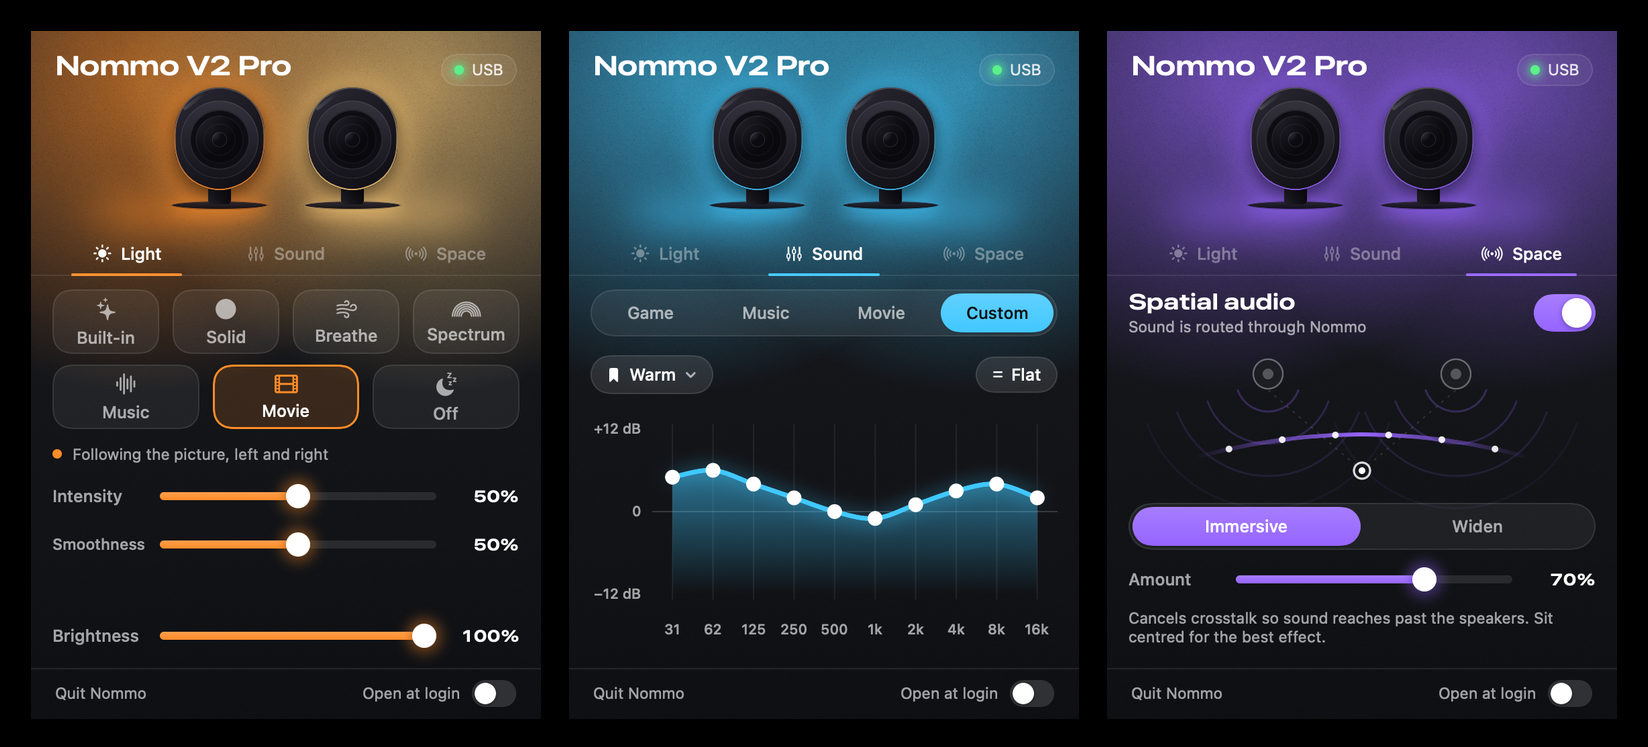
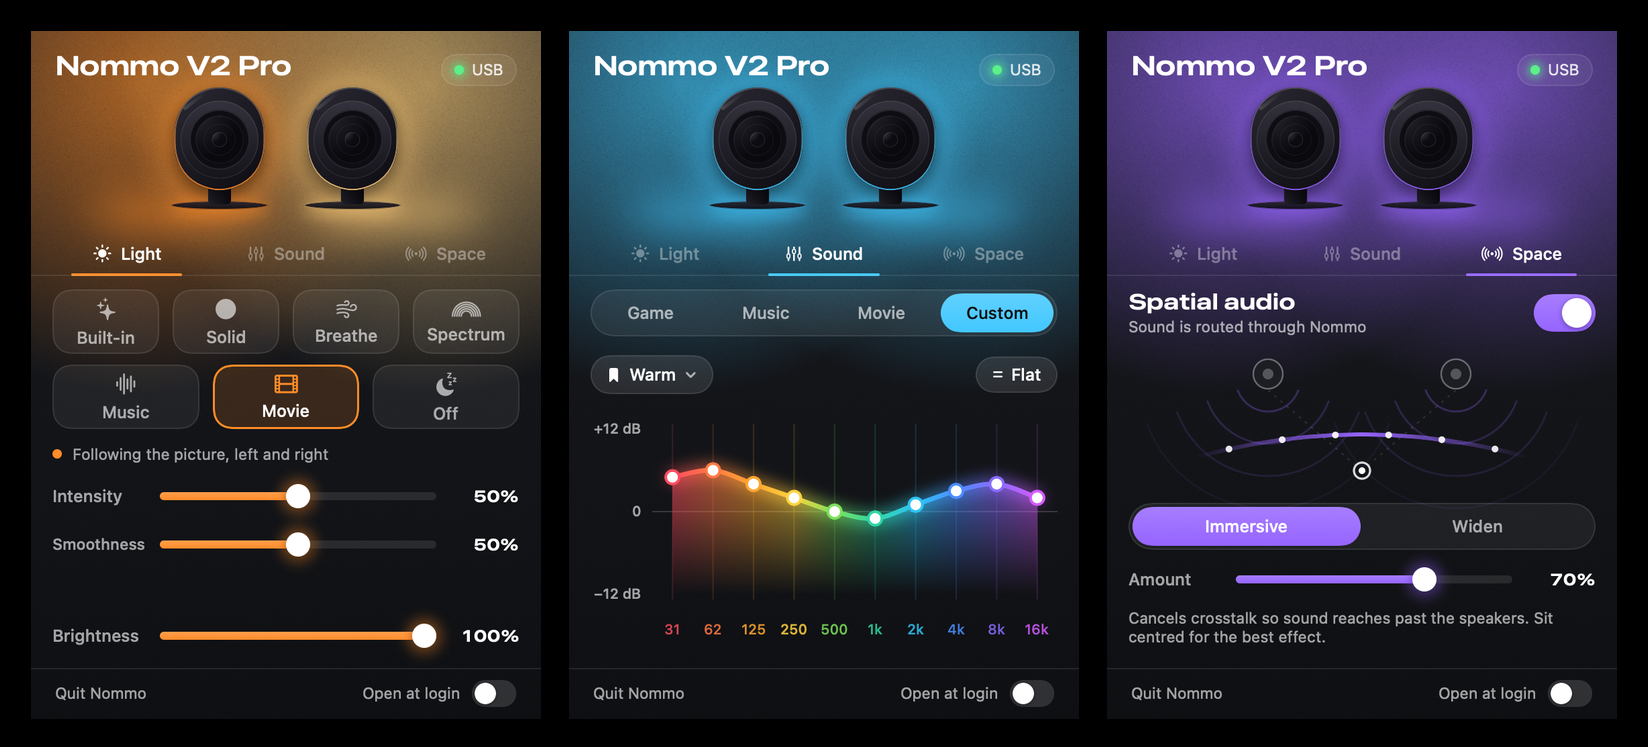
Colour-code the equaliser curve by frequency
The curve, its glow and its fill now run through the spectrum from red-orange
bass to violet treble, and each band's label, hairline and point carries its
own colour. The palette is fixed rather than following the lighting colour.
README wording and screenshots updated.

Changed region(s): [[0.4023, 0.6158, 0.6499, 0.7697], [0.4023, 0.8313, 0.588, 0.8621], [0.6189, 0.8313, 0.6499, 0.8621]]

diff --git a/Sources/NommoUI/Visuals.swift b/Sources/NommoUI/Visuals.swift
@@ -189,15 +189,21 @@ struct SpeakerView: View {
 
 // MARK: - EQ curve
 
-/// The equaliser as a response curve: a glowing line in the accent colour through ten draggable points, over a wash
-/// that fades towards the bottom, with the dB range at the left and the band frequencies underneath.
+/// The equaliser as a response curve: a glowing line through ten draggable points, over a wash that fades towards the
+/// bottom, with the dB range at the left and the band frequencies underneath. Frequency is colour-coded from warm
+/// bass to cool treble, like a spectrum analyser.
 struct EQCurve: View {
     let values: [Double]
     /// False draws the curve only, for a style the speaker plays but that isn't being edited.
     var editable = true
     @Binding var activeBand: Int?
     let onChange: (Int, Double) -> Void
-    @Environment(\.accent) private var accent
+
+    /// One colour per band, low to high: red-orange bass, through green and cyan mids, to violet treble.
+    static let bandColors: [Color] = [
+        Color(hex: 0xFF4D5E), Color(hex: 0xFF7A45), Color(hex: 0xFFA630), Color(hex: 0xFFD23F), Color(hex: 0x7BE15C),
+        Color(hex: 0x2FD6A5), Color(hex: 0x2EC4F5), Color(hex: 0x4C8DFF), Color(hex: 0x8A6BFF), Color(hex: 0xD35CFF),
+    ]
 
     private let maxDB = EQ.maxDecibels
     /// Room above +12 dB and below -12 dB for the points and the glow.
@@ -212,7 +218,7 @@ struct EQCurve: View {
                 ForEach(Array(EQ.frequencies.enumerated()), id: \.offset) { index, hz in
                     Text(EQ.label(for: hz))
                         .font(.system(size: 10.5, weight: .medium))
-                        .foregroundStyle(activeBand == index ? Theme.text : Theme.dim)
+                        .foregroundStyle(Self.bandColors[index].opacity(activeBand == index ? 1 : 0.85))
                         .frame(maxWidth: .infinity)
                 }
             }
@@ -230,7 +236,7 @@ struct EQCurve: View {
 
         return ZStack(alignment: .topLeading) {
             Canvas { context, _ in
-                let color = accent.color
+                let colors = Self.bandColors
                 let top = inset, bottom = size.height - inset
                 let points = values.indices.map { i in
                     CGPoint(x: gutter + column * (CGFloat(i) + 0.5), y: midY - CGFloat(values[i] / maxDB) * travel)
@@ -243,34 +249,48 @@ struct EQCurve: View {
                 for (i, p) in points.enumerated() {
                     var line = Path()
                     line.move(to: CGPoint(x: p.x, y: top - 4)); line.addLine(to: CGPoint(x: p.x, y: bottom + 4))
-                    context.stroke(line, with: .color(activeBand == i ? color.opacity(0.6) : .white.opacity(0.07)), lineWidth: 1)
+                    context.stroke(line, with: .color(colors[i].opacity(activeBand == i ? 0.7 : 0.16)), lineWidth: 1)
                 }
 
-                guard let first = points.first, let last = points.last, points.count > 1 else { return }
+                guard let first = points.first, let last = points.last, points.count > 1, colors.count == points.count else { return }
                 let curve = Self.smoothPath(points)
+                // One gradient runs along the curve from the first band to the last, so frequency is its colour.
+                let spectrum = GraphicsContext.Shading.linearGradient(
+                    Gradient(stops: colors.enumerated().map { .init(color: $1, location: CGFloat($0) / CGFloat(colors.count - 1)) }),
+                    startPoint: CGPoint(x: first.x, y: 0), endPoint: CGPoint(x: last.x, y: 0)
+                )
 
+                // The wash takes the spectrum colours and fades towards the bottom: fill it, then erase more of it lower down.
                 var wash = curve
                 wash.addLine(to: CGPoint(x: last.x, y: bottom)); wash.addLine(to: CGPoint(x: first.x, y: bottom)); wash.closeSubpath()
-                context.fill(wash, with: .linearGradient(
-                    Gradient(stops: [
-                        .init(color: color.opacity(0.7), location: 0),
-                        .init(color: color.opacity(0.36), location: 0.5),
-                        .init(color: color.opacity(0), location: 1),
-                    ]),
-                    startPoint: CGPoint(x: 0, y: top), endPoint: CGPoint(x: 0, y: bottom)
-                ))
+                context.drawLayer { layer in
+                    layer.fill(wash, with: spectrum)
+                    layer.blendMode = .destinationOut
+                    layer.fill(Path(CGRect(x: 0, y: top, width: size.width, height: bottom - top)), with: .linearGradient(
+                        Gradient(stops: [
+                            .init(color: .black.opacity(0.22), location: 0),
+                            .init(color: .black.opacity(0.56), location: 0.5),
+                            .init(color: .black, location: 1),
+                        ]),
+                        startPoint: CGPoint(x: 0, y: top), endPoint: CGPoint(x: 0, y: bottom)
+                    ))
+                }
 
                 context.drawLayer { layer in
-                    layer.addFilter(.shadow(color: color.opacity(0.75), radius: 7))
-                    layer.stroke(curve, with: .color(color), style: StrokeStyle(lineWidth: 3.5, lineCap: .round, lineJoin: .round))
+                    layer.addFilter(.blur(radius: 6))
+                    layer.opacity = 0.85
+                    layer.stroke(curve, with: spectrum, style: StrokeStyle(lineWidth: 7, lineCap: .round, lineJoin: .round))
                 }
+                context.stroke(curve, with: spectrum, style: StrokeStyle(lineWidth: 3.5, lineCap: .round, lineJoin: .round))
 
                 for (i, p) in points.enumerated() {
                     let r: CGFloat = activeBand == i ? 7.5 : 5.5
                     if activeBand == i {
-                        context.fill(Path(ellipseIn: CGRect(x: p.x - r - 5, y: p.y - r - 5, width: (r + 5) * 2, height: (r + 5) * 2)), with: .color(color.opacity(0.3)))
+                        context.fill(Path(ellipseIn: CGRect(x: p.x - r - 5, y: p.y - r - 5, width: (r + 5) * 2, height: (r + 5) * 2)), with: .color(colors[i].opacity(0.35)))
                     }
-                    context.fill(Path(ellipseIn: CGRect(x: p.x - r, y: p.y - r, width: r * 2, height: r * 2)), with: .color(.white))
+                    let dot = CGRect(x: p.x - r, y: p.y - r, width: r * 2, height: r * 2)
+                    context.fill(Path(ellipseIn: dot), with: .color(.white))
+                    context.stroke(Path(ellipseIn: dot.insetBy(dx: 0.5, dy: 0.5)), with: .color(colors[i]), lineWidth: 2)
                 }
             }
             .contentShape(Rectangle())

diff --git a/README.md b/README.md
@@ -87,7 +87,7 @@ Click the menu-bar icon.
   picture and the right speaker from the right (see [Movie mode](#movie-mode)).
   *Built-in* hands the lights back to the speaker's own colour cycle. The interface itself takes its accent colour
   from the colour you pick.
-- **Sound.** Pick a preset, or choose **Custom** to shape ten bands. Drag a fader, double-click to zero a band,
+- **Sound.** Pick a preset, or choose **Custom** to shape ten bands. Drag a point on the curve, double-click to zero a band,
   and save the curve as a named profile from the bookmark menu. The built-in presets are tuned inside the speaker, which
   does not tell the app what their curves are, so they are shown as presets only.
   Under **Music**, the style menu starts on **Default**, the speaker's own Music sound. The rest is the usual list
